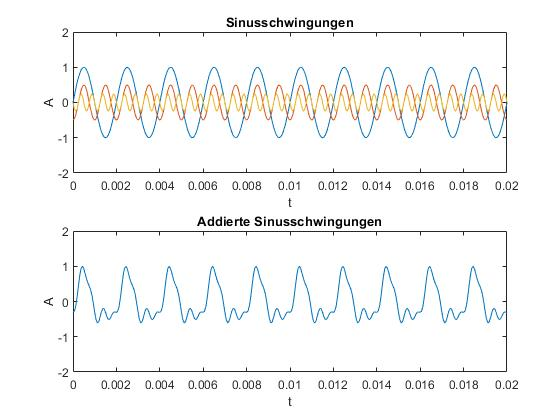
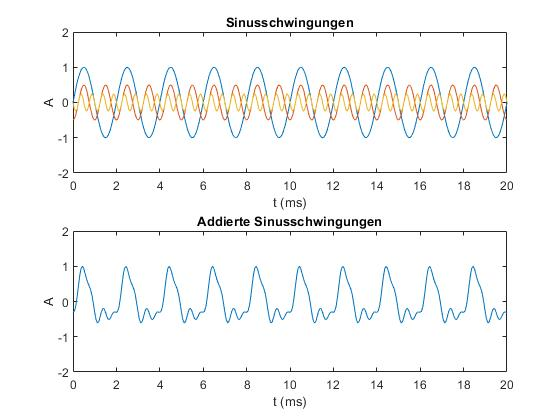
Delta_F hinzugefügt Sinusschwingung timeskala in ms

diff --git a/ue1.html b/ue1.html
@@ -62,6 +62,19 @@
                 auf? Wie kann man sich diesen Unterschied erklären?</p>
         </header>
         <section>
+            <p>Die Frequenzauflösung delta_f berechnet sich aus der Abtastfrequenz f_a geteilt durch den Wert N.</p>
+            <p>N wird gebildet durch die gewünschte Framelänge multipliziert mit der Abtastrate.</p>
+            <p>Die Abtastrate ist in unserer Aufgabe 16 kHz. Daraus folgen nachfolgende Werte für delta_f:</p>
+            <ul>
+                <li>Framelänge: 50 ms N: 800000 delta_f: 0.0200</li>
+                <li>Framelänge: 100 ms N: 1600000 delta_f: 0.0100</li>
+                <li>Framelänge: 500 ms N: 8000000 delta_f: 0.0020</li>
+                <li>Framelänge: 1000 ms N: 16000000 delta_f: 0.0010</li>
+                <li>Framelänge: 5000 ms N: 80000000 delta_f: 0.0002</li>
+            </ul>
+            <p>Somit erkennt man eindeutig, je größer die Framelänge gewählt wird, also je größer der Wert für N wird, desto kleiner wird delta_f und desto feiner wird die fft-Funktion.</p>
+            
+
             <td><img src="./matlab/01-uebung/aufgabe1.2.jpg" alt="Sinusschwingungen" width="700" height="600"></td>
             <figcaption>Bild 2</figcaption>
             <td><img src="./matlab/01-uebung/aufgabe1.2.2.jpg" alt="Sinusschwingungen" width="700" height="600"></td>
@@ -166,21 +179,21 @@
             </p>
             <pre>
                     <code>
-function FFTAnalize(signalVec, FS,framelengths)
+function FFTAnalize(name, signalVec, FS,framelengths)
 % Diese Funktion erhält einen Signalvector und wendet an ihm die FFT an mit
 % gegebenen Framelängen und stellt diese dar
-        countOfN = length(framelengths);
-        halfCountOfN = ceil(countOfN/2);
-
-        for index = 1:countOfN
-                N = framelengths(index);
-                [spec f] = calculateFFT(signalVec, FS, N);
-                subplot(halfCountOfN,2,index)
-                plot(f, abs(spec));
-                title(int2str(N/FS*1000) + " ms");
-                ylabel("Â(f)");
-                xlabel("f (Hz)");
-        end
+countOfN = length(framelengths);
+halfCountOfN = ceil(countOfN/2);
+disp(name);
+for index = 1:countOfN
+    N = framelengths(index);
+    [spec f] = calculateFFT(signalVec, FS, FS * N);
+    subplot(halfCountOfN,2,index)
+    plot(f, abs(spec));
+    title(int2str(N) + " ms");
+    ylabel("Â(f)");
+    xlabel("f (Hz)");
+end
 end
                     </code>
             </pre>
@@ -189,14 +202,15 @@ end
             </p>
             <pre><code>
 function [arrayFFTResults arrayFFTFrequenceVec] = calculateFFT(signalVec, FS, N)
-        % calculateFFT(signalVec, FS, N)
-        % Bestimmt die FFT und gibt das Ergebnis und die Frequenzachse zurück
-        %   Diese Funktion bestimmt die FFT mit dem gegebenen Wert N
-        %   Berechnet zusätzlich die Frequenzachse und gibt diese als zweiten
-        %   Parameter zurück.
-        arrayFFTResults = fft(signalVec, N);
-        delta_f = FS / N;
-        arrayFFTFrequenceVec = [0: delta_f : FS-delta_f];
+% calculateFFT(signalVec, FS, N)
+% Bestimmt die FFT und gibt das Ergebnis und die Frequenzachse zurück
+%   Diese Funktion bestimmt die FFT mit dem gegebenen Wert N
+%   Berechnet zusätzlich die Frequenzachse und gibt diese als zweiten
+%   Parameter zurück.
+arrayFFTResults = fft(signalVec, N);
+delta_f = FS / N;
+fprintf("Delta von f bei FS %d und N %d: %f\n", FS, N, delta_f);
+arrayFFTFrequenceVec = [0: delta_f : FS-delta_f];
 end
                 </code></pre>
             <p>
@@ -227,7 +241,6 @@ afl = 16; % Auflösung 16 Bit
 
 Ta = 1/f_a;
 t = 0:Ta:5-Ta; % Dauer 5 Sekunden
-tanz = 0:Ta:0.020 - Ta; % Anzeige x-Achse
 
 A_t1 = A1 * sin(2 * pi * f1 * t + phi1);
 A_t2 = A2 * sin(2 * pi * f2 * t + phi2);
@@ -241,30 +254,30 @@ A_ges = A_ges / maxWert;
 
 figure('Name',"Sinusschwingungen")
 subplot(2,1,1)
-plot(t, A_t1, t, A_t2, t,A_t3);
-axis([0 0.02 -2 2]);
+plot(t*1000, A_t1, t*1000, A_t2, t*1000,A_t3);
+axis([0 20 -2 2]);
 title("Sinusschwingungen");
 ylabel("A");
-xlabel("t");
+xlabel("t (ms)");
 
 subplot(2,1,2)
-plot(t, A_ges);
-axis([0 0.02 -2 2]);
+plot(t*1000, A_ges);
+axis([0 20 -2 2]);
 title("Addierte Sinusschwingungen");
 ylabel("A");
-xlabel("t");
+xlabel("t (ms)");
 
 % Fouriertransformation
-N_1 = f_a * 0.05;
-N_2 = f_a * 0.100;
-N_3 = f_a * 0.500;
-N_4 = f_a * 1;
-N_5 = f_a * 5;
+N_1 = 50;
+N_2 = 100;
+N_3 = 500;
+N_4 = 1000;
+N_5 = 5000;
 
 Nvec = [N_1 N_2 N_3 N_4 N_5];
 
 figure('Name',"Fouriertransformierte")
-FFTAnalize(A_ges, f_a, Nvec)
+FFTAnalize("Auswertung Sinusschwingung", A_ges, f_a, Nvec)
 
 audiowrite("aufgabe1_output.wav", A_ges, f_a, "BitsPerSample",afl);
 %Stefan----------------------------------------------------------------------
@@ -283,9 +296,9 @@ title("I-Sprachsignal");
 
 % Berechne und gebe Transformierte Signale aus
 figure('Name',"Sprache-Fouriertransformiert A")
-FFTAnalize(avec, aFS, Nvec(1:4));
+FFTAnalize("Auswertung A", avec, aFS, Nvec(1:4));
 figure('Name',"Sprache-Fouriertransformiert I")
-FFTAnalize(ivec, iFS, Nvec(1:4));
+FFTAnalize("Auswertung I", ivec, iFS, Nvec(1:4));
 
 %Marc----------------------------------------------------------------------
 [avec aFS] = audioread("../../wav/Marc_A.wav");
@@ -303,9 +316,9 @@ title("I-Sprachsignal");
 
 % Berechne und gebe Transformierte Signale aus
 figure('Name',"Sprache-Fouriertransformiert A")
-FFTAnalize(avec, aFS, Nvec(1:4));
+FFTAnalize("Auswertung A", avec, aFS, Nvec(1:4));
 figure('Name',"Sprache-Fouriertransformiert I")
-FFTAnalize(ivec, iFS, Nvec(1:4));
+FFTAnalize("Auswertung I", ivec, iFS, Nvec(1:4));
 
 %David----------------------------------------------------------------------
 [avec aFS] = audioread("../../wav/David_A.wav");
@@ -324,11 +337,11 @@ title("I-Sprachsignal");
 
 % Berechne und gebe Transformierte Signale aus
 figure('Name',"Sprache-Fouriertransformiert A")
-FFTAnalize(avec, aFS, Nvec(1:4));
+FFTAnalize("Auswertung A", avec, aFS, Nvec(1:4));
 figure('Name',"Sprache-Fouriertransformiert I")
-FFTAnalize(ivec, iFS, Nvec(1:4));
+FFTAnalize("Auswertung I", ivec, iFS, Nvec(1:4));
 figure('Name',"Sprache-Fouriertransformiert H")
-FFTAnalize(hvec, hFS, Nvec(1:4));
+FFTAnalize("Auswertung I", hvec, hFS, Nvec(1:4));
 
                 </code></pre>
         </section>

diff --git a/matlab/01-uebung/aufgabe1.m b/matlab/01-uebung/aufgabe1.m
@@ -22,7 +22,6 @@ afl = 16; % Auflösung 16 Bit
 
 Ta = 1/f_a;
 t = 0:Ta:5-Ta; % Dauer 5 Sekunden
-tanz = 0:Ta:0.020 - Ta; % Anzeige x-Achse
 
 A_t1 = A1 * sin(2 * pi * f1 * t + phi1);
 A_t2 = A2 * sin(2 * pi * f2 * t + phi2);
@@ -36,76 +35,35 @@ A_ges = A_ges / maxWert;
 
 figure('Name',"Sinusschwingungen")
 subplot(2,1,1)
-plot(t, A_t1, t, A_t2, t,A_t3);
-axis([0 0.02 -2 2]);
+plot(t*1000, A_t1, t*1000, A_t2, t*1000,A_t3);
+axis([0 20 -2 2]);
 title("Sinusschwingungen");
 ylabel("A");
-xlabel("t");
+xlabel("t (ms)");
 
 subplot(2,1,2)
-plot(t, A_ges);
-axis([0 0.02 -2 2]);
+plot(t*1000, A_ges);
+axis([0 20 -2 2]);
 title("Addierte Sinusschwingungen");
 ylabel("A");
-xlabel("t");
+xlabel("t (ms)");
 
 % Fouriertransformation
-N_1 = f_a * 0.05;
-N_2 = f_a * 0.100;
-N_3 = f_a * 0.500;
-N_4 = f_a * 1;
-N_5 = f_a * 5;
+N_1 = 50;
+N_2 = 100;
+N_3 = 500;
+N_4 = 1000;
+N_5 = 5000;
 
 Nvec = [N_1 N_2 N_3 N_4 N_5];
 
 figure('Name',"Fouriertransformierte")
-FFTAnalize(A_ges, f_a, Nvec)
+FFTAnalize("Auswertung Sinusschwingung", A_ges, f_a, Nvec)
 
 audiowrite("aufgabe1_output.wav", A_ges, f_a, "BitsPerSample",afl);
-%Stefan----------------------------------------------------------------------
-[avec aFS] = audioread("../../wav/Stefan_A.wav");
-[ivec iFS] = audioread("../../wav/Stefan_I.wav");
 
-% Stelle Sprachsignale dar
-figure("Name","Sprachsignale");
-subplot(2,1,1);
-plot(avec);
-title("A-Sprachsignal");
-
-subplot(2,1,2);
-plot(ivec);
-title("I-Sprachsignal");
-
-% Berechne und gebe Transformierte Signale aus
-figure('Name',"Sprache-Fouriertransformiert A")
-FFTAnalize(avec, aFS, Nvec(1:4));
-figure('Name',"Sprache-Fouriertransformiert I")
-FFTAnalize(ivec, iFS, Nvec(1:4));
-
-%Marc----------------------------------------------------------------------
-[avec aFS] = audioread("../../wav/Marc_A.wav");
-[ivec iFS] = audioread("../../wav/Marc_I.wav");
-
-% Stelle Sprachsignale dar
-figure("Name","Sprachsignale");
-subplot(2,1,1);
-plot(avec);
-title("A-Sprachsignal");
-
-subplot(2,1,2);
-plot(ivec);
-title("I-Sprachsignal");
-
-% Berechne und gebe Transformierte Signale aus
-figure('Name',"Sprache-Fouriertransformiert A")
-FFTAnalize(avec, aFS, Nvec(1:4));
-figure('Name',"Sprache-Fouriertransformiert I")
-FFTAnalize(ivec, iFS, Nvec(1:4));
-
-%David----------------------------------------------------------------------
 [avec aFS] = audioread("../../wav/David_A.wav");
 [ivec iFS] = audioread("../../wav/David_I.wav");
-[hvec hFS] = audioread("../../wav/David_H.wav");
 
 % Stelle Sprachsignale dar
 figure("Name","Sprachsignale");
@@ -119,9 +77,7 @@ title("I-Sprachsignal");
 
 % Berechne und gebe Transformierte Signale aus
 figure('Name',"Sprache-Fouriertransformiert A")
-FFTAnalize(avec, aFS, Nvec(1:4));
+FFTAnalize("Auswertung A", avec, aFS, Nvec(1:4));
 figure('Name',"Sprache-Fouriertransformiert I")
-FFTAnalize(ivec, iFS, Nvec(1:4));
-figure('Name',"Sprache-Fouriertransformiert H")
-FFTAnalize(hvec, hFS, Nvec(1:4));
+FFTAnalize("Auswertung I", ivec, iFS, Nvec(1:4));
 

diff --git a/matlab/01-uebung/calculateFFT.m b/matlab/01-uebung/calculateFFT.m
@@ -6,5 +6,6 @@ function [arrayFFTResults arrayFFTFrequenceVec] = calculateFFT(signalVec, FS, N)
 %   Parameter zurück.
 arrayFFTResults = fft(signalVec, N);
 delta_f = FS / N;
+fprintf("Delta von f bei FS %d und N %d: %f\n", FS, N, delta_f);
 arrayFFTFrequenceVec = [0: delta_f : FS-delta_f];
 end
